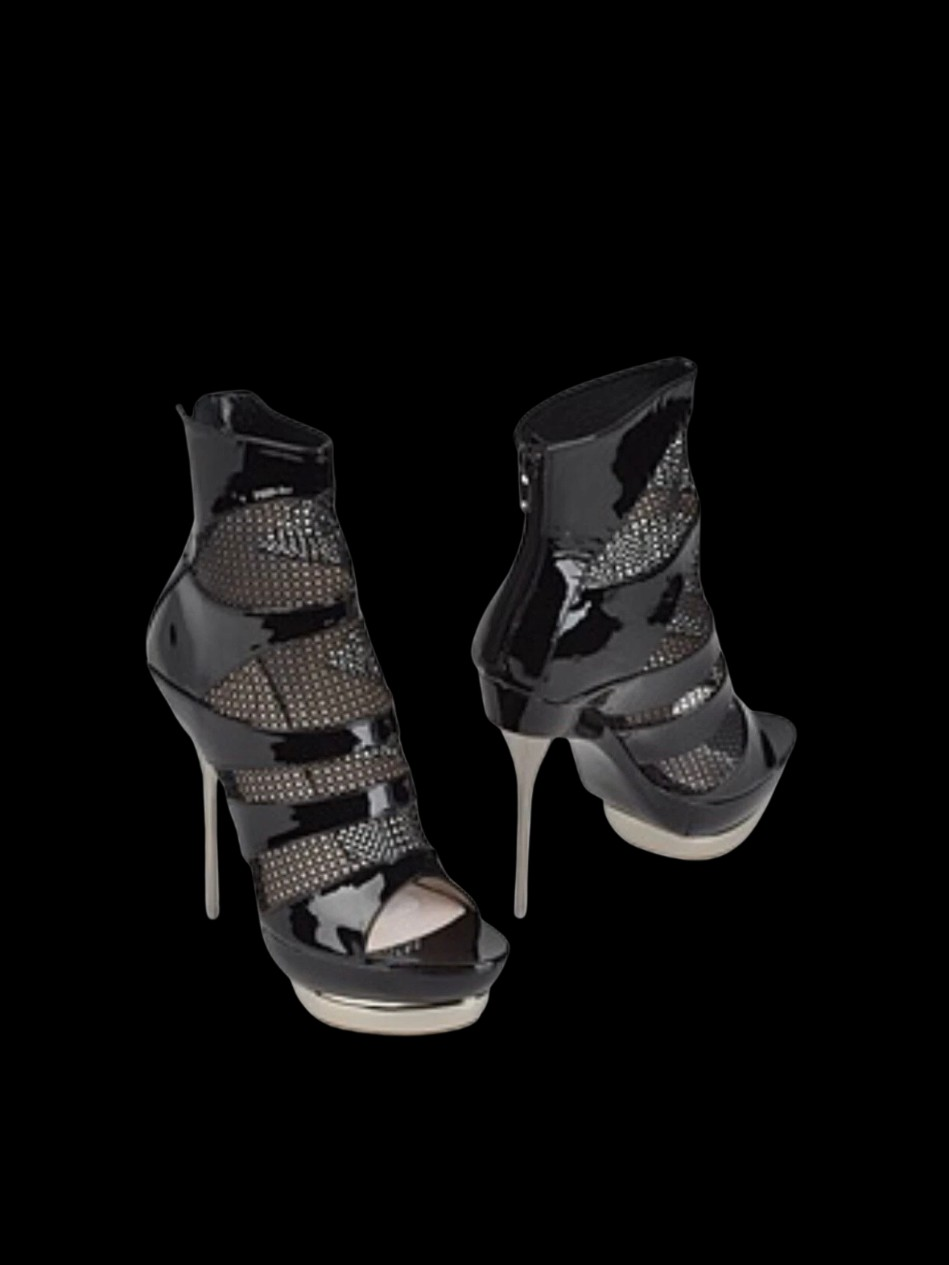
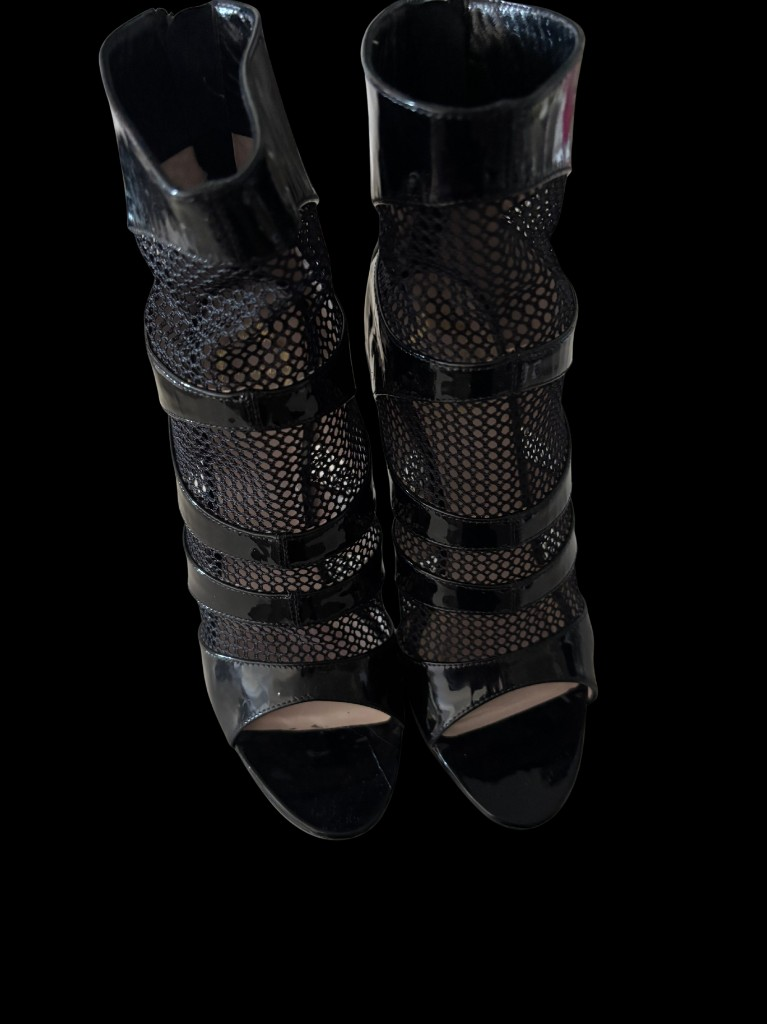
Replace Emilio Pucci boots gallery with new photos.

Changed region(s): [[0.1199, 0.0, 0.8396, 0.8438], [0.6297, 0.7812, 0.6597, 0.8125]]

diff --git a/figma-vintage-clothing/src/app/components/HomePage.tsx b/figma-vintage-clothing/src/app/components/HomePage.tsx
@@ -41,8 +41,8 @@ import jpgMeshTattooDressBackImg from "../../imports/jpg-mesh-tattoo-dress-galle
 import emilioPucciBootsPairImg from "../../imports/emilio-pucci-platform-boots-gallery/01-pair.png";
 import emilioPucciBootsSideImg from "../../imports/emilio-pucci-platform-boots-gallery/02-side.png";
 import emilioPucciBootsProfileImg from "../../imports/emilio-pucci-platform-boots-gallery/03-profile.png";
-import emilioPucciBootsSolesImg from "../../imports/emilio-pucci-platform-boots-gallery/04-soles.png";
-import emilioPucciBootsTopImg from "../../imports/emilio-pucci-platform-boots-gallery/05-top.png";
+import emilioPucciBootsAngleImg from "../../imports/emilio-pucci-platform-boots-gallery/04-angle.png";
+import emilioPucciBootsSolesImg from "../../imports/emilio-pucci-platform-boots-gallery/05-soles.png";
 import newInFreshDropsImg from "../../imports/new-in-fresh-drops-background.png";
 import consignFeatureImg from "../../imports/consign-feature-background.png";
 import authenticatedFeatureImg from "../../imports/authenticated-feature-background.png";
@@ -67,8 +67,8 @@ export const ALL_PRODUCTS: Product[] = [
       emilioPucciBootsPairImg,
       emilioPucciBootsSideImg,
       emilioPucciBootsProfileImg,
+      emilioPucciBootsAngleImg,
       emilioPucciBootsSolesImg,
-      emilioPucciBootsTopImg,
     ],
     imageBackground: "#000000",
   },
